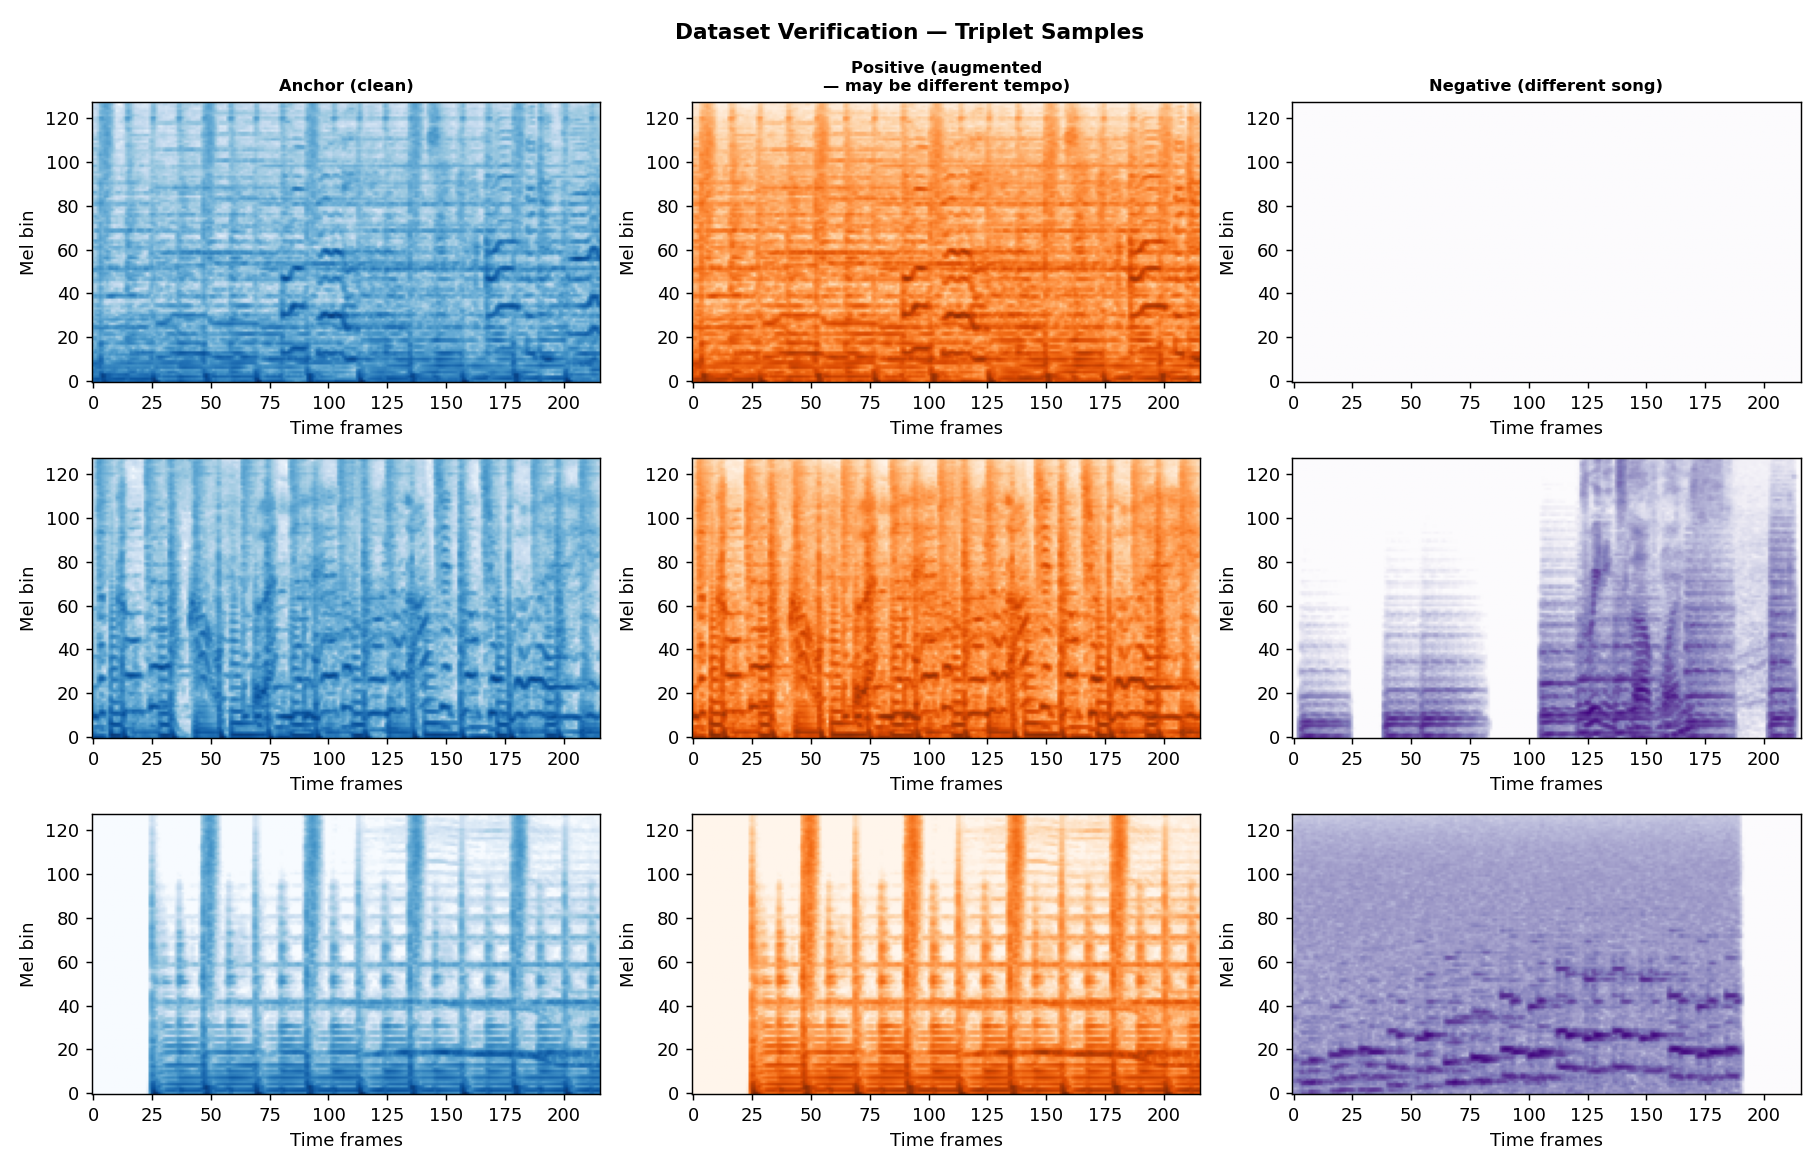
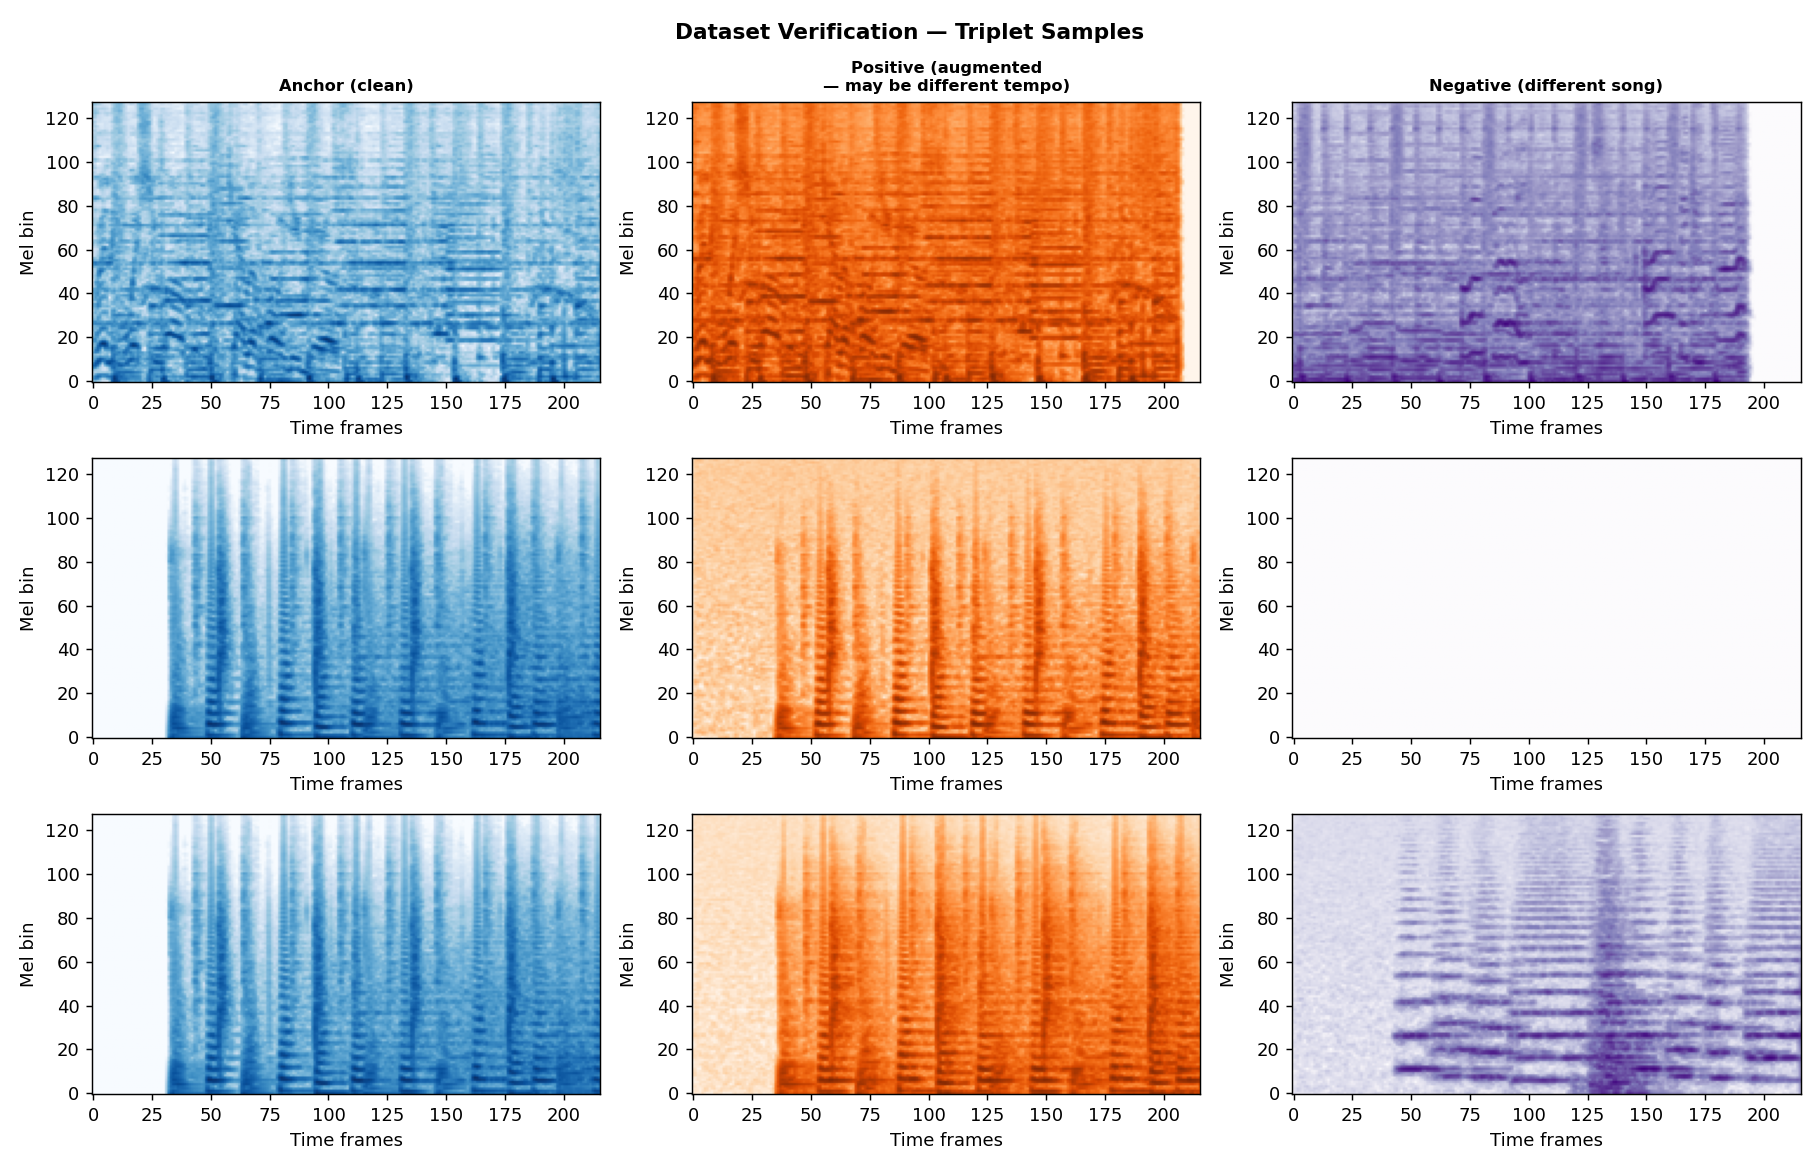
adjusting model weights

diff --git a/ml/dataset.py b/ml/dataset.py
@@ -213,58 +213,73 @@ class TripletAudioDataset(Dataset):
 
 
 def build_triplet_dataset(
-    source: List[Tuple[str, str]] | str = "test_songs/",
-    clips_per_song: int = 10,
-    augmentations_per_clip: int = 5,
+    gtzan_source: List[Tuple[str, str]] | None = None,
+    songs_dir: str | None = None,
+    gtzan_clips_per_file: int = 3,
+    gtzan_augmentations_per_clip: int = 3,
+    songs_clips_per_file: int = 6,
+    songs_augmentations_per_clip: int = 10,
 ) -> TripletAudioDataset:
-    """Build a triplet dataset from a list of (filepath, label) tuples or a flat directory.
+    """Build a triplet dataset from GTZAN entries and/or a local songs directory.
 
-    Accepts either:
-      - A list of (filepath, genre_label) tuples from load_gtzan() — preferred
-      - A flat directory path (str) of WAV files — for quick local testing
+    Handles two data sources with different sampling rates:
+      - gtzan_source: List of (filepath, genre_label) tuples from load_gtzan().
+                      Uses gtzan_clips_per_file / gtzan_augmentations_per_clip.
+      - songs_dir:    Flat directory of WAV files (the user's own song library).
+                      Uses songs_clips_per_file / songs_augmentations_per_clip.
 
-    For each song:
-        - Slices into clips (up to clips_per_song, evenly spaced)
-        - For each clip generates augmentations_per_clip augmented versions
-        - Anchor: clean mel spectrogram of the clip
-        - Positive: augmented version of the same clip (may be tempo-shifted)
-        - Negative: augmented clip from a different filepath; preferably from
-          a different genre/label to make negatives harder and improve training
+    Negative selection:
+      - GTZAN anchor  → prefers a different-genre GTZAN file; falls back to
+                        same-genre-other GTZAN, then songs_dir files.
+      - songs/ anchor → always prefers another songs_dir file; falls back to
+                        GTZAN files only if no other songs/ file is available.
+
+    Prints a triplet count breakdown at the end showing GTZAN vs songs/
+    contributions separately.
 
     Args:
-        source:                List of (filepath, label) tuples, or a directory path string.
-        clips_per_song:        Maximum clips to take per file (evenly spaced).
-        augmentations_per_clip: Number of positive augmentations per clip.
+        gtzan_source:                 (filepath, genre_label) tuples from load_gtzan().
+        songs_dir:                    Directory of WAV files for the user's song library.
+        gtzan_clips_per_file:         Max clips per GTZAN file (evenly spaced).
+        gtzan_augmentations_per_clip: Augmented positives per GTZAN clip.
+        songs_clips_per_file:         Max clips per songs/ file.
+        songs_augmentations_per_clip: Augmented positives per songs/ clip.
 
     Returns:
         TripletAudioDataset ready for use with a PyTorch DataLoader.
     """
-    # Resolve source into a list of (filepath, label) tuples
-    if isinstance(source, str):
-        songs_dir = source
-        wav_files = sorted([
+    if gtzan_source is None and songs_dir is None:
+        raise ValueError("Provide at least one of gtzan_source or songs_dir.")
+
+    # Build a unified tagged entry list: (filepath, label, source)
+    # source is "gtzan" or "songs"
+    tagged: List[Tuple[str, str, str]] = []
+
+    if gtzan_source:
+        for path, label in gtzan_source:
+            tagged.append((path, label, "gtzan"))
+
+    songs_paths: List[str] = []
+    if songs_dir and os.path.isdir(songs_dir):
+        songs_paths = sorted([
             os.path.join(songs_dir, f)
             for f in os.listdir(songs_dir)
             if f.lower().endswith(".wav")
         ])
-        if len(wav_files) < 2:
-            raise ValueError(f"Need at least 2 WAV files in {songs_dir}, found {len(wav_files)}")
-        entries = [(path, "unknown") for path in wav_files]
-    else:
-        entries = source
+        for path in songs_paths:
+            tagged.append((path, "songs", "songs"))
 
-    if len(entries) < 2:
-        raise ValueError(f"Need at least 2 entries, got {len(entries)}")
+    if len(tagged) < 2:
+        raise ValueError(f"Need at least 2 files total, got {len(tagged)}.")
 
-    # Group by label so we can find cross-genre negatives
-    label_to_indices: defaultdict[str, List[int]] = defaultdict(list)
-    for i, (_, label) in enumerate(entries):
-        label_to_indices[label].append(i)
+    # Load clips for each entry, applying per-source limits
+    print(f"Loading clips from {len(tagged)} files "
+          f"({sum(1 for _, _, s in tagged if s == 'gtzan')} GTZAN, "
+          f"{sum(1 for _, _, s in tagged if s == 'songs')} songs/)...")
 
-    # Load clips indexed by entry index
-    print(f"Loading clips from {len(entries)} files...")
     index_to_clips: dict[int, List[np.ndarray]] = {}
-    for i, (path, _) in enumerate(entries):
+    for i, (path, _, source) in enumerate(tagged):
+        limit = gtzan_clips_per_file if source == "gtzan" else songs_clips_per_file
         try:
             audio, sr = sf.read(path, dtype="float32")
         except Exception as e:
@@ -275,36 +290,50 @@ def build_triplet_dataset(
         clips = slice_audio(audio, sr=sr)
         if not clips:
             continue
-        if len(clips) > clips_per_song:
-            indices = np.linspace(0, len(clips) - 1, clips_per_song, dtype=int)
-            clips = [clips[j] for j in indices]
+        if len(clips) > limit:
+            idxs = np.linspace(0, len(clips) - 1, limit, dtype=int)
+            clips = [clips[j] for j in idxs]
         index_to_clips[i] = clips
 
     valid_indices = list(index_to_clips.keys())
     if len(valid_indices) < 2:
         raise ValueError("Need at least 2 files with extractable clips.")
 
+    # Index sets by source for negative selection
+    gtzan_indices = [i for i in valid_indices if tagged[i][2] == "gtzan"]
+    songs_indices  = [i for i in valid_indices if tagged[i][2] == "songs"]
+
     # Build triplets
     triplets: List[Tuple[np.ndarray, np.ndarray, np.ndarray]] = []
+    gtzan_triplet_count = 0
+    songs_triplet_count = 0
 
     for anchor_idx in valid_indices:
-        _, anchor_label = entries[anchor_idx]
+        _, anchor_label, anchor_source = tagged[anchor_idx]
         anchor_clips = index_to_clips[anchor_idx]
+        aug_count = (gtzan_augmentations_per_clip if anchor_source == "gtzan"
+                     else songs_augmentations_per_clip)
 
-        # Prefer negatives from a different genre; fall back to any other file
-        different_genre = [
-            j for j in valid_indices
-            if j != anchor_idx and entries[j][1] != anchor_label
-        ]
-        same_genre_other = [
-            j for j in valid_indices
-            if j != anchor_idx and entries[j][1] == anchor_label
-        ]
-        neg_pool = different_genre if different_genre else same_genre_other
+        # Negative pool selection
+        if anchor_source == "songs":
+            # Prefer another songs/ file; fall back to GTZAN
+            other_songs = [j for j in songs_indices if j != anchor_idx]
+            neg_pool = other_songs if other_songs else gtzan_indices
+        else:
+            # GTZAN anchor: prefer different-genre GTZAN, then same-genre-other, then songs/
+            diff_genre = [
+                j for j in gtzan_indices
+                if j != anchor_idx and tagged[j][1] != anchor_label
+            ]
+            same_genre_other = [
+                j for j in gtzan_indices
+                if j != anchor_idx and tagged[j][1] == anchor_label
+            ]
+            neg_pool = diff_genre or same_genre_other or songs_indices
 
         for clip in anchor_clips:
             anchor_spec = _to_spectrogram(clip)
-            for _ in range(augmentations_per_clip):
+            for _ in range(aug_count):
                 pos_audio = augment_clip(clip)
                 positive_spec = _to_spectrogram(pos_audio)
 
@@ -315,8 +344,22 @@ def build_triplet_dataset(
 
                 triplets.append((anchor_spec, positive_spec, negative_spec))
 
+                if anchor_source == "gtzan":
+                    gtzan_triplet_count += 1
+                else:
+                    songs_triplet_count += 1
+
     random.shuffle(triplets)
-    print(f"Built {len(triplets)} triplets from {len(valid_indices)} files.")
+
+    print(f"\nTriplet breakdown:")
+    print(f"  GTZAN anchors : {gtzan_triplet_count} triplets  "
+          f"({len(gtzan_indices)} files × up to {gtzan_clips_per_file} clips "
+          f"× {gtzan_augmentations_per_clip} aug)")
+    print(f"  songs/ anchors: {songs_triplet_count} triplets  "
+          f"({len(songs_indices)} files × up to {songs_clips_per_file} clips "
+          f"× {songs_augmentations_per_clip} aug)")
+    print(f"  Total         : {len(triplets)} triplets")
+
     return TripletAudioDataset(triplets)
 
 

diff --git a/matcher.py b/matcher.py
@@ -105,7 +105,7 @@ def match(
     else:
         print("  Classical : no match")
 
-    ml_title, ml_artist = None, None
+    ml_title, ml_artist, ml_score = None, None, 0.0
     if ml_result[0]:
         ml_title, ml_artist, ml_score = ml_result[0][0]
         print(f"  ML        : '{ml_title}' by {ml_artist}  (similarity={ml_score:.3f})")
@@ -118,13 +118,19 @@ def match(
     # -----------------------------------------------------------------------
     # Combine
     # -----------------------------------------------------------------------
+    ML_HIGH_CONFIDENCE_THRESHOLD = 0.7
+
     print("\n--- Final Decision ---")
 
     both_matched = c_title is not None and ml_title is not None
     titles_agree = both_matched and c_title.lower() == ml_title.lower()
 
-    if titles_agree:
+    if titles_agree and ml_score >= ML_HIGH_CONFIDENCE_THRESHOLD:
         label = "HIGH CONFIDENCE — both paths agree"
+        title, artist = c_title, c_artist
+    elif titles_agree:
+        # Paths agree but ML similarity is weak — still a match, just less certain
+        label = "MODERATE CONFIDENCE — paths agree, low ML similarity"
         title, artist = c_title, c_artist
     elif c_title is not None and ml_title is None:
         label = "MODERATE CONFIDENCE — classical only"

diff --git a/ml/embeddings.py b/ml/embeddings.py
@@ -98,11 +98,13 @@ def build_faiss_index(
 
     for path in wav_files:
         stem = os.path.splitext(os.path.basename(path))[0]
-        if " - " in stem:
-            parts = stem.split(" - ", 1)
-            artist, title = parts[0].strip(), parts[1].strip()
+        sep = " - " if " - " in stem else "_-_" if "_-_" in stem else None
+        if sep:
+            parts = stem.split(sep, 1)
+            artist = parts[0].replace("_", " ").strip()
+            title = parts[1].replace("_", " ").strip()
         else:
-            title, artist = stem, "Unknown"
+            title, artist = stem.replace("_", " "), "Unknown"
 
         audio, sr = sf.read(path, dtype="float32")
         if audio.ndim > 1:
@@ -245,7 +247,8 @@ def visualize_embeddings(
 
     for path in wav_files:
         stem = os.path.splitext(os.path.basename(path))[0]
-        title = stem.split(" - ", 1)[1].strip() if " - " in stem else stem
+        sep = " - " if " - " in stem else "_-_" if "_-_" in stem else None
+        title = stem.split(sep, 1)[1].replace("_", " ").strip() if sep else stem.replace("_", " ")
 
         audio, sr = sf.read(path, dtype="float32")
         if audio.ndim > 1:

diff --git a/tests/test_phase5.py b/tests/test_phase5.py
@@ -147,7 +147,7 @@ def main() -> None:
     print("=" * 60)
     print("STEP 2 — Building triplet dataset")
     print("=" * 60)
-    dataset = build_triplet_dataset(WAV_DIR, clips_per_song=3, augmentations_per_clip=3)
+    dataset = build_triplet_dataset(songs_dir=WAV_DIR)
     verify_dataset(dataset, n_samples=3, save_path=os.path.join(ML_DIR, "dataset_verify.png"))
 
     # ------------------------------------------------------------------

diff --git a/ml/model.py b/ml/model.py
@@ -161,7 +161,7 @@ def train(
         Trained AudioEmbedder in eval() mode.
     """
     entries = load_gtzan(gtzan_dir, genres=genres)
-    dataset = build_triplet_dataset(entries, clips_per_song=3, augmentations_per_clip=3)
+    dataset = build_triplet_dataset(gtzan_source=entries)
     loader = DataLoader(dataset, batch_size=batch_size, shuffle=True, drop_last=False)
 
     model = AudioEmbedder()
